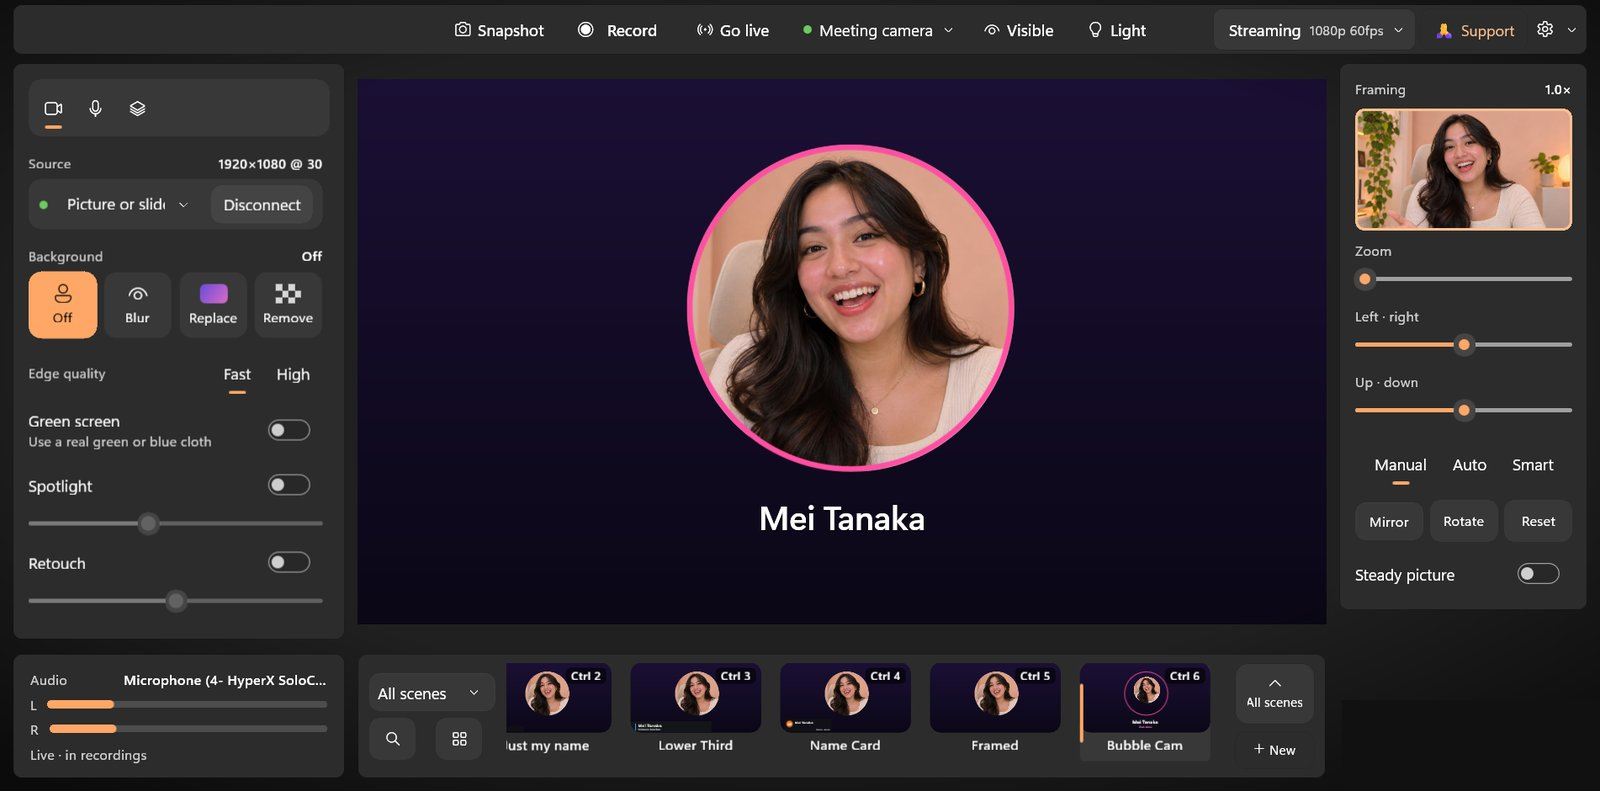
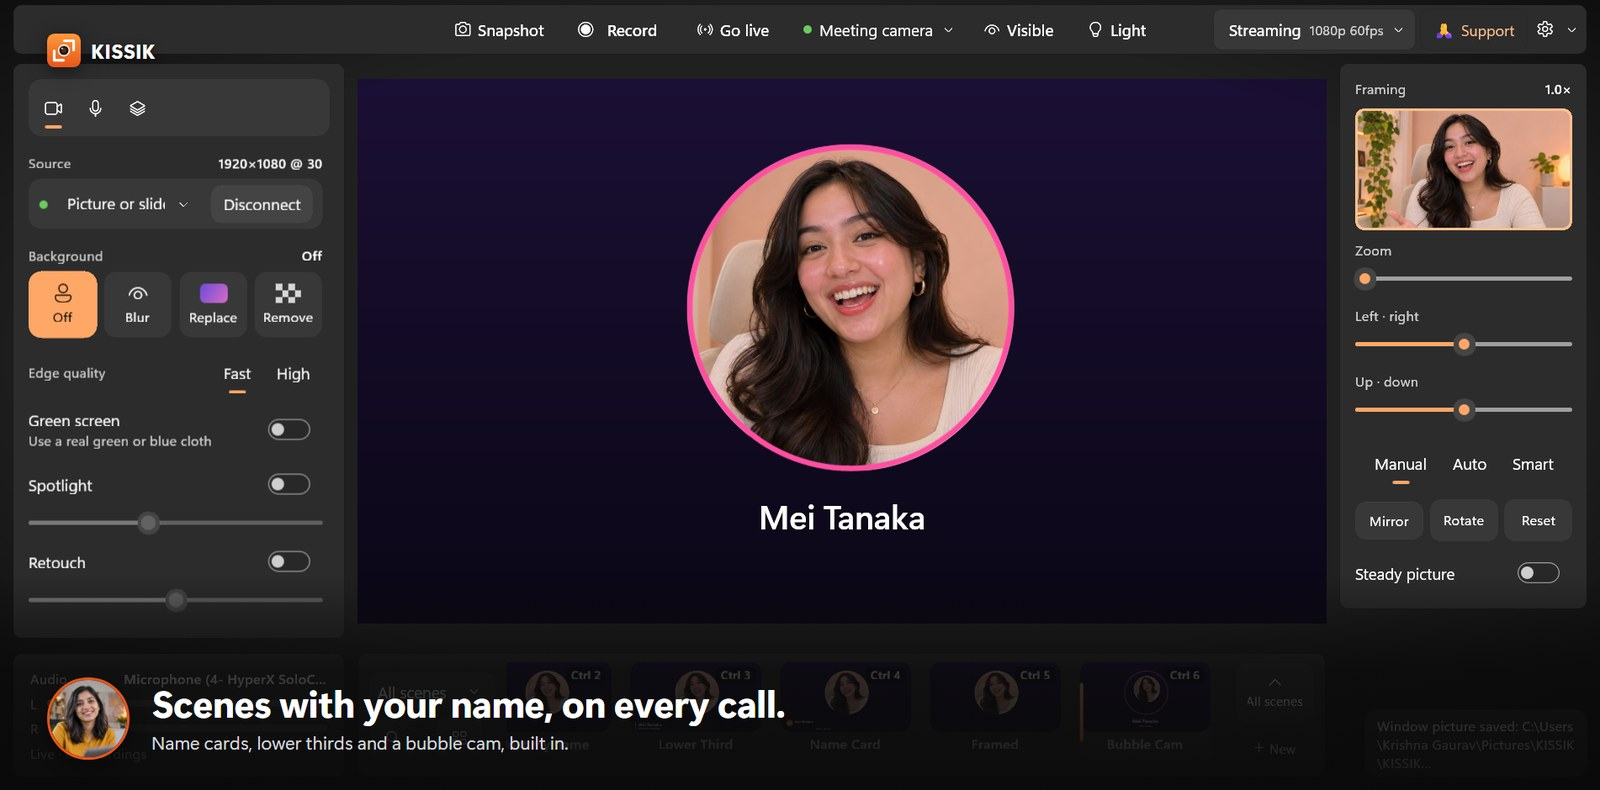
Website: three app screenshots replaced with benefit-led cover shots
Each keeps the real KISSIK window full size and adds a short headline and
a small presenter photo in a caption band at the bottom, instead of a
plain screenshot. Also used as the first three Store listing images.

Changed region(s): [[0.0, 0.8203, 0.8438, 1.0], [0.0312, 0.0304, 0.0938, 0.0911], [0.8438, 0.4253, 0.9062, 0.4557]]

diff --git a/docs/STORE-LISTING.md b/docs/STORE-LISTING.md
@@ -71,8 +71,9 @@ No account, no watermark, free
 
 **Copyright:** © 2026 Krishna Gaurav
 
-**Screenshots** (1920×1080 or larger, PNG): use the KISSIK window pictures in `website/assets/screens/` in this order:
-studio.jpg, camera.jpg, layers.jpg (Name Card), lower-third.jpg, simple.jpg, bubble-cam.jpg. Convert to PNG first if Partner Center asks.
+**Screenshots** (1902×940 PNG): from `artifacts/store/screenshots/`, in this order:
+00a-cover-blur.png, 00b-cover-scenes.png, 00c-cover-camera.png (the three cover slides: real KISSIK UI full-bleed, headline and a small presenter photo in a caption band), then 01-studio.png through 08-first-screen.png (the plain proof screenshots).
+The three cover slides also replaced camera.jpg, bubble-cam.jpg and studio.jpg in `website/assets/screens/` (2026-11-11).
 
 **Store logos:** `docs/logo/kissik-logo-1024.png` (1:1, 300×300 or larger).
 
